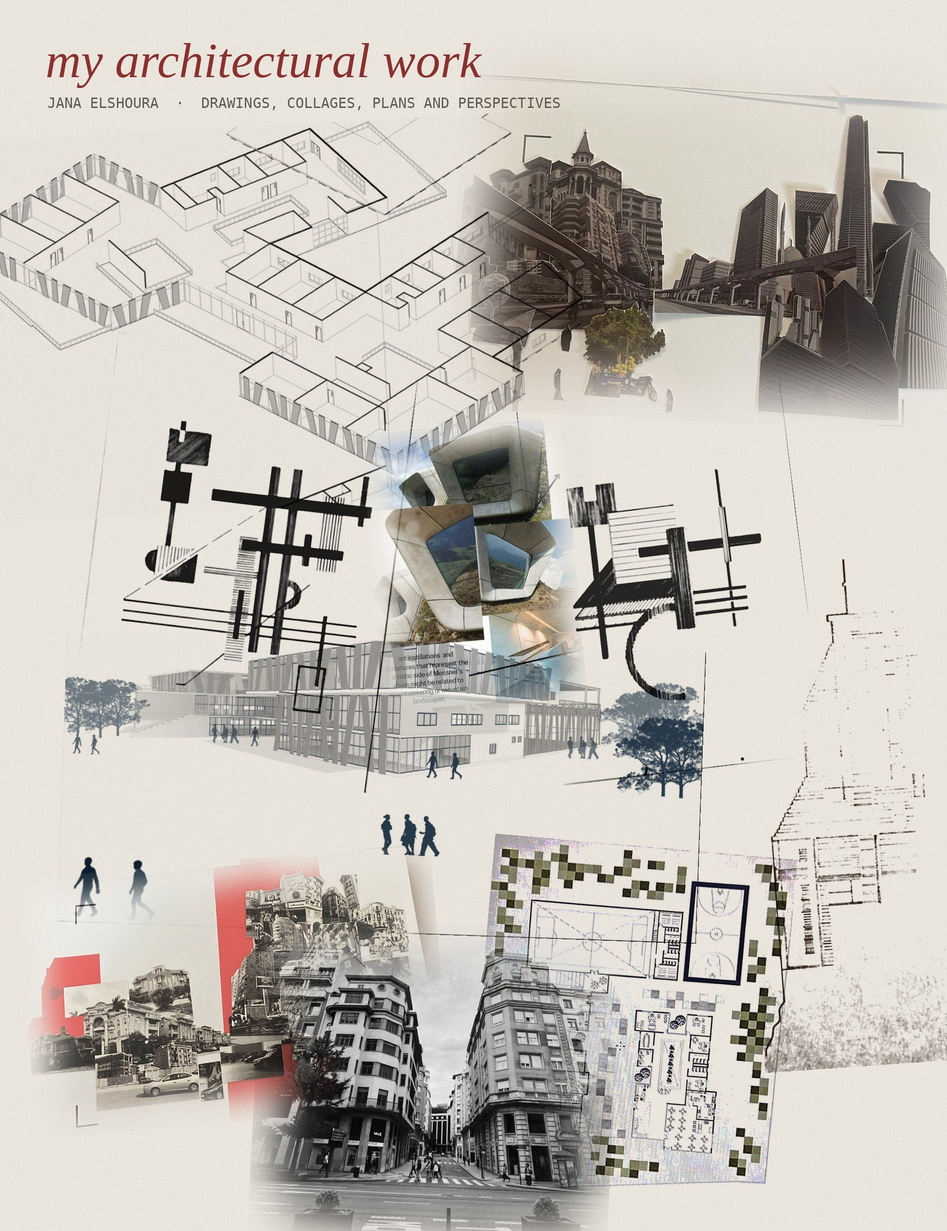
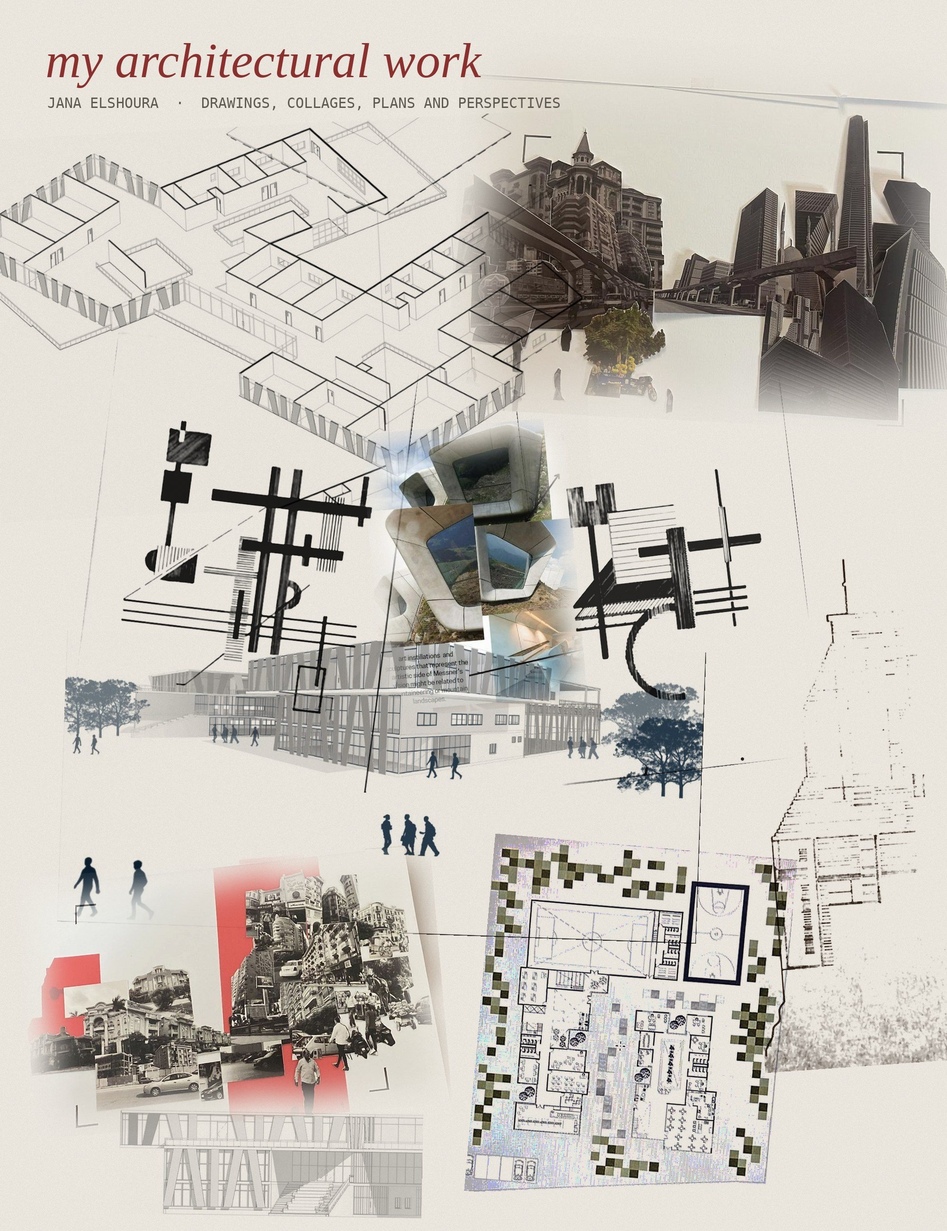
Simplify bottom of architecture collage
Claude-Session: https://claude.ai/code/session_01RWhRtLdeFxWxPncqja81Qc

Changed region(s): [[0.124, 0.7477, 0.651, 1.0]]

diff --git a/index.html b/index.html
@@ -221,7 +221,7 @@ footer{font:400 11px/1.5 var(--mono);letter-spacing:.12em;text-transform:upperca
       <p>I left architecture because I love creativity most when it is free. Still, it shaped me more than any single course or degree could, and I carry that love for design into everything I do, now with the skills to make it real.</p>
     </div>
     <figure class="collage">
-      <a href="img/architecture-board.jpg" target="_blank" rel="noopener"><img src="img/architecture-board-sm.jpg" alt="Collage of Jana's architecture work blended together: her final photo collage, an exploded axonometric, abstraction drawings, a 3D city collage, her own street photograph, a perspective, city collages, a site plan and a hand drawn elevation" loading="lazy"></a>
+      <a href="img/architecture-board.jpg" target="_blank" rel="noopener"><img src="img/architecture-board-sm.jpg" alt="Collage of Jana's architecture work blended together: her final photo collage, an exploded axonometric, abstraction drawings, a 3D city collage, an elevation, a perspective, city collages, a site plan and a hand drawn elevation" loading="lazy"></a>
       <figcaption>My architecture work, blended into one board. Tap to see it full size.</figcaption>
     </figure>
   </section>
